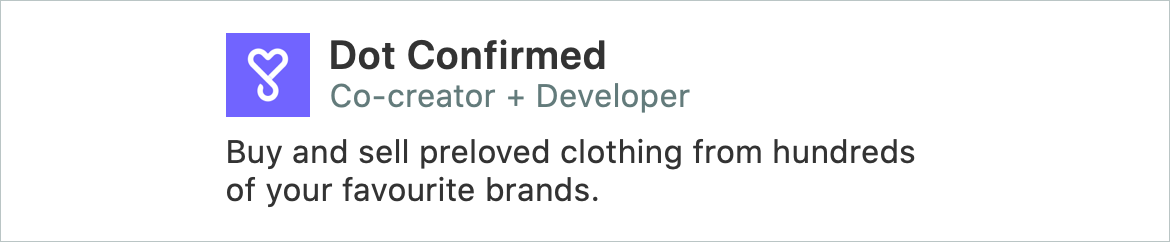
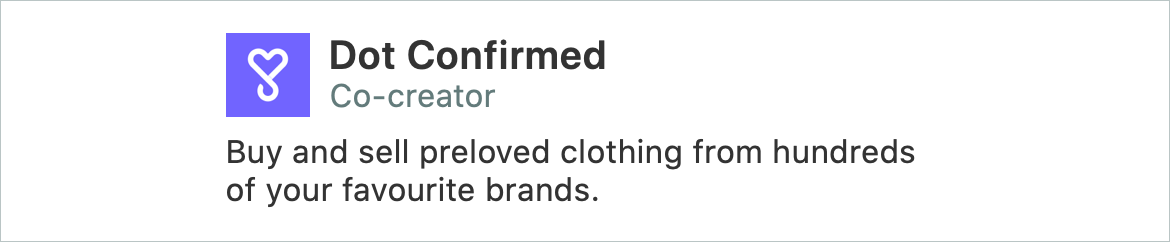
Update copy

Changed region(s): [[0.4308, 0.3471, 0.5846, 0.4628]]

diff --git a/Portfolio/src/stores/FeatureStore.js b/Portfolio/src/stores/FeatureStore.js
@@ -15,14 +15,14 @@ module.exports = [
     {
         "image": gauntlet,
         "title": "Gauntlet",
-        "position": "Co-creator + Developer",
+        "position": "Co-creator",
         "subtitle": "Track your games, decks, and opponents for Magic: The Gathering®.",
         "link": "https://gauntletapp.com"
     },
     {
         "image": dotconfirmed,
         "title": "Dot Confirmed",
-        "position": "Co-creator + Developer",
+        "position": "Co-creator",
         "subtitle": "Buy and sell preloved clothing from hundreds of your favourite brands.",
         "link": "http://dotconfirmed.com"
     },
